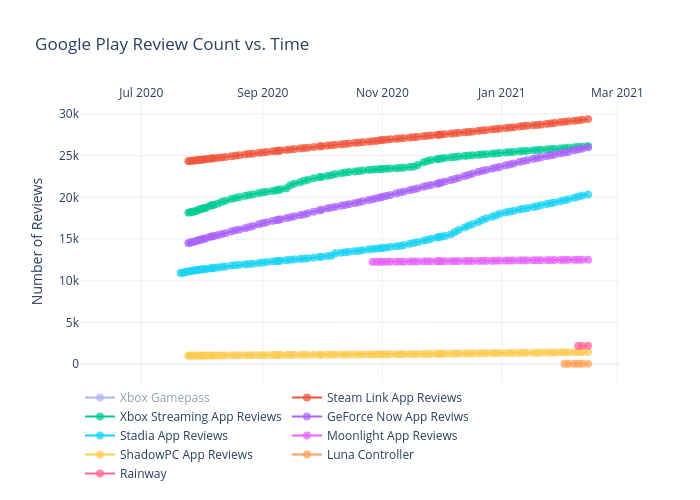
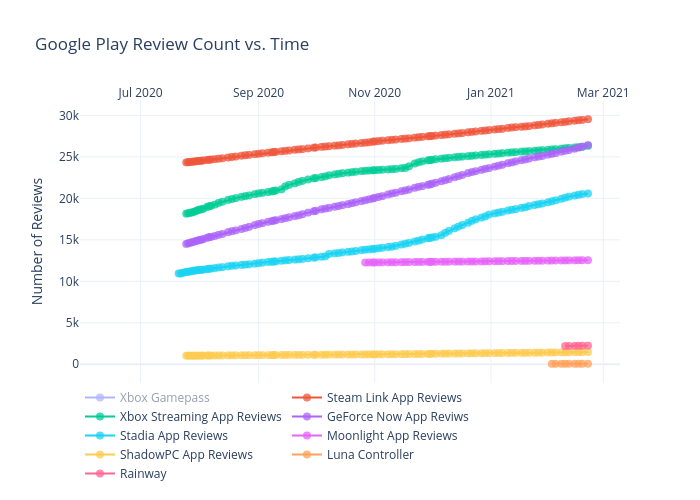
Add files via upload

diff --git a/googleplay/figure.js b/googleplay/figure.js
@@ -115,7 +115,10 @@ var figure = {
                 "2021-02-07",
                 "2021-02-09",
                 "2021-02-11",
-                "2021-02-14"
+                "2021-02-14",
+                "2021-02-16",
+                "2021-02-18",
+                "2021-02-21"
             ],
             "ysrc": "jdeslip:360:26cc61",
             "y": [
@@ -222,7 +225,10 @@ var figure = {
                 null,
                 "119833",
                 "120056",
-                "120512"
+                "120512",
+                "120709",
+                "120869",
+                "121079"
             ],
             "marker": {
                 "size": 8,
@@ -348,7 +354,10 @@ var figure = {
                 "2021-02-07",
                 "2021-02-09",
                 "2021-02-11",
-                "2021-02-14"
+                "2021-02-14",
+                "2021-02-16",
+                "2021-02-18",
+                "2021-02-21"
             ],
             "ysrc": "jdeslip:360:e8e4cf",
             "y": [
@@ -455,7 +464,10 @@ var figure = {
                 "29170",
                 "29216",
                 "29291",
-                "29364"
+                "29364",
+                "29423",
+                "29460",
+                "29548"
             ],
             "marker": {
                 "size": 8,
@@ -581,7 +593,10 @@ var figure = {
                 "2021-02-07",
                 "2021-02-09",
                 "2021-02-11",
-                "2021-02-14"
+                "2021-02-14",
+                "2021-02-16",
+                "2021-02-18",
+                "2021-02-21"
             ],
             "ysrc": "jdeslip:360:f50e84",
             "y": [
@@ -688,7 +703,10 @@ var figure = {
                 "25996",
                 "26043",
                 "26080",
-                "26141"
+                "26141",
+                "26178",
+                "26207",
+                "26329"
             ],
             "marker": {
                 "size": 8,
@@ -814,7 +832,10 @@ var figure = {
                 "2021-02-07",
                 "2021-02-09",
                 "2021-02-11",
-                "2021-02-14"
+                "2021-02-14",
+                "2021-02-16",
+                "2021-02-18",
+                "2021-02-21"
             ],
             "ysrc": "jdeslip:360:7d131a",
             "y": [
@@ -921,7 +942,10 @@ var figure = {
                 "25629",
                 "25736",
                 "25828",
-                "25988"
+                "25988",
+                "26113",
+                "26243",
+                "26423"
             ],
             "marker": {
                 "size": 8,
@@ -1047,7 +1071,10 @@ var figure = {
                 "2021-02-07",
                 "2021-02-09",
                 "2021-02-11",
-                "2021-02-14"
+                "2021-02-14",
+                "2021-02-16",
+                "2021-02-18",
+                "2021-02-21"
             ],
             "ysrc": "jdeslip:360:a3f0bb",
             "y": [
@@ -1154,7 +1181,10 @@ var figure = {
                 "19940",
                 "20083",
                 "20205",
-                "20335"
+                "20335",
+                "20427",
+                "20510",
+                "20582"
             ],
             "marker": {
                 "size": 8,
@@ -1280,7 +1310,10 @@ var figure = {
                 "2021-02-07",
                 "2021-02-09",
                 "2021-02-11",
-                "2021-02-14"
+                "2021-02-14",
+                "2021-02-16",
+                "2021-02-18",
+                "2021-02-21"
             ],
             "ysrc": "jdeslip:360:8b5afa",
             "y": [
@@ -1387,7 +1420,10 @@ var figure = {
                 "12514",
                 "12516",
                 "12524",
-                "12530"
+                "12530",
+                "12534",
+                "12540",
+                "12541"
             ],
             "marker": {
                 "size": 8,
@@ -1513,7 +1549,10 @@ var figure = {
                 "2021-02-07",
                 "2021-02-09",
                 "2021-02-11",
-                "2021-02-14"
+                "2021-02-14",
+                "2021-02-16",
+                "2021-02-18",
+                "2021-02-21"
             ],
             "ysrc": "jdeslip:360:f3a0d7",
             "y": [
@@ -1620,7 +1659,10 @@ var figure = {
                 "1433",
                 "1438",
                 "1444",
-                "1460"
+                "1460",
+                "1462",
+                "1465",
+                "1473"
             ],
             "marker": {
                 "size": 8,
@@ -1746,7 +1788,10 @@ var figure = {
                 "2021-02-07",
                 "2021-02-09",
                 "2021-02-11",
-                "2021-02-14"
+                "2021-02-14",
+                "2021-02-16",
+                "2021-02-18",
+                "2021-02-21"
             ],
             "ysrc": "jdeslip:360:397713",
             "y": [
@@ -1853,7 +1898,10 @@ var figure = {
                 "54",
                 "56",
                 "57",
-                "57"
+                "57",
+                "59",
+                "58",
+                "60"
             ],
             "marker": {
                 "size": 8,
@@ -1979,7 +2027,10 @@ var figure = {
                 "2021-02-07",
                 "2021-02-09",
                 "2021-02-11",
-                "2021-02-14"
+                "2021-02-14",
+                "2021-02-16",
+                "2021-02-18",
+                "2021-02-21"
             ],
             "ysrc": "jdeslip:360:28315e",
             "y": [
@@ -2086,7 +2137,10 @@ var figure = {
                 null,
                 "2196",
                 "2202",
-                "2220"
+                "2220",
+                "2229",
+                "2236",
+                "2248"
             ],
             "marker": {
                 "size": 8,
@@ -2105,8 +2159,8 @@ var figure = {
             "side": "top",
             "type": "date",
             "range": [
-                "2020-05-31 23:24:37.8091",
-                "2021-03-01 00:35:22.1909"
+                "2020-05-31 13:01:23.3427",
+                "2021-03-08 10:58:36.6573"
             ],
             "title": {
                 "text": ""
@@ -2116,8 +2170,8 @@ var figure = {
         "yaxis": {
             "type": "linear",
             "range": [
-                -2048.5460696803916,
-                31461.546069680393
+                -2061.7116325942993,
+                31658.7116325943
             ],
             "title": {
                 "text": "Number of Reviews"
